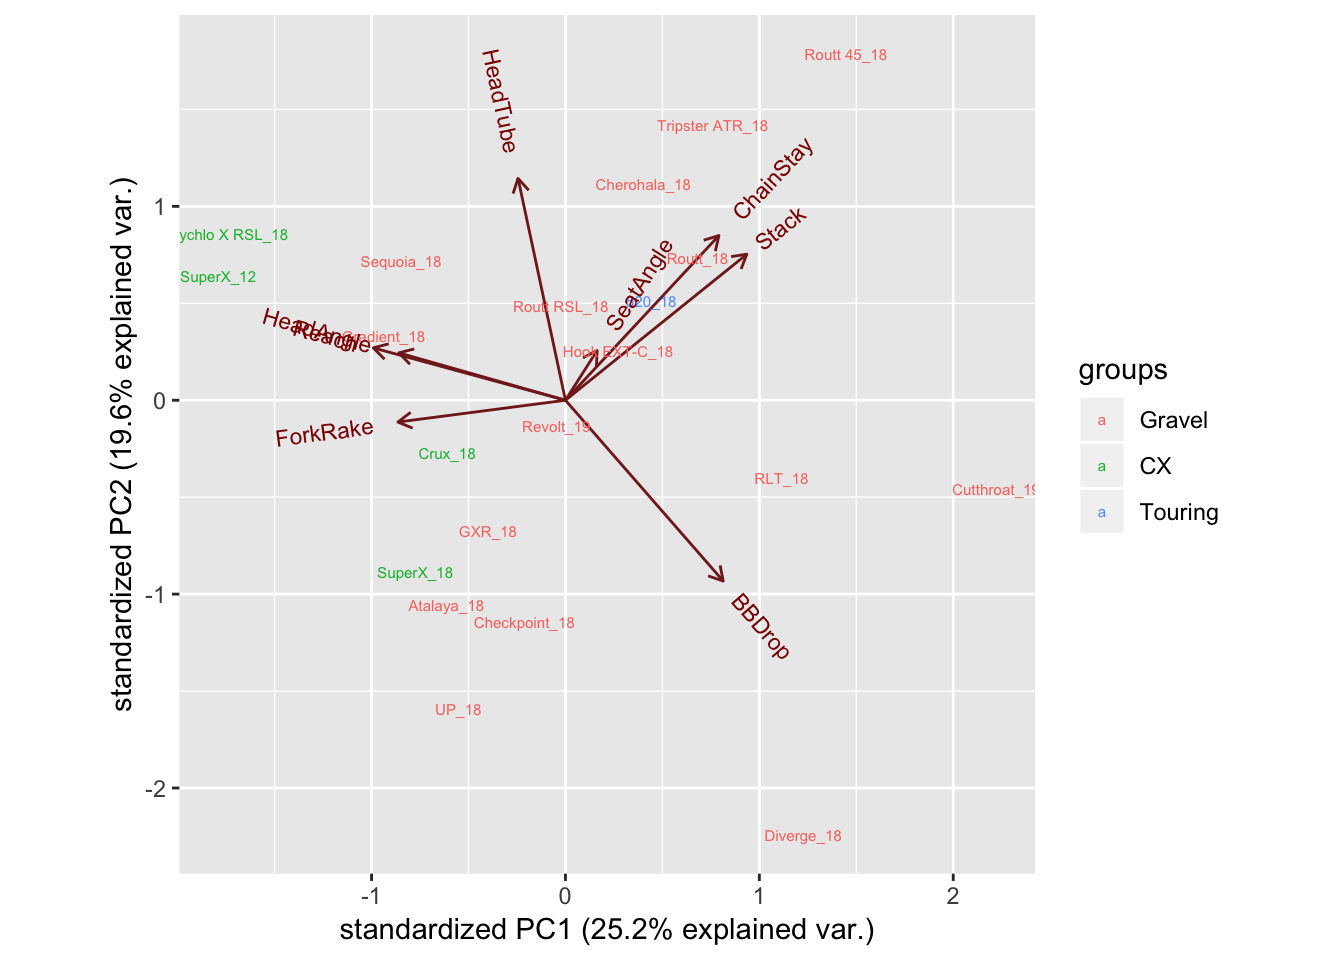
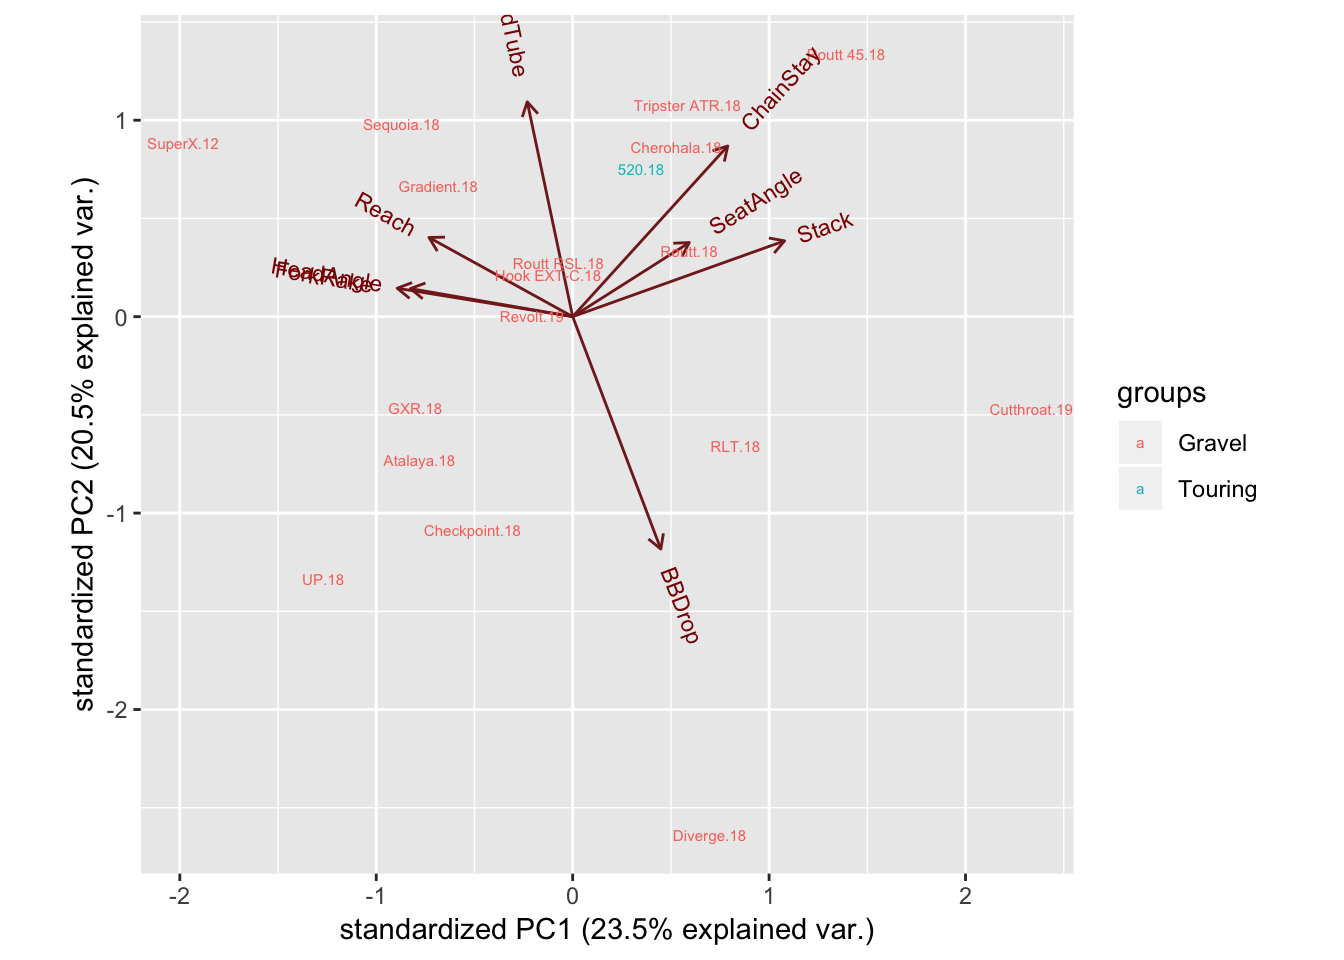
Tweaked geometry analysis

diff --git a/public/post/2018-11-08-geometry/index.html b/public/post/2018-11-08-geometry/index.html
@@ -151,7 +151,7 @@ The main guides for the important numbers to chase were:
 <li>this great resource on <a href="http://teknecycling.com/how-to-choose-a-gravel-bike-part-2-geometry/">gravel bikes</a> covering geometry in part two</li>
 <li><a href="https://geometrygeeks.bike/understanding-bike-geometry">geometrygeeks.com</a> provides good explanations of each term.</li>
 </ul>
-<p>Gaps in geometry were filled in (as best as possible) using this <a href="https://www.bikegeocalc.com/#7Unnameda0b4c743.9802d270e600.64877f769.85608g971.72104h412.76493i340j340k1335l813.03517m1133.98576n679.88726o1177.24813p889.84772q1213.32131r1345.15065s893.89606t31.8u40v6w2x10y280z40A0B150C25D370E45F172.5G30H30Z">bike geometry calculator</a>.</p>
+<p>Gaps in geometry were filled in (as best as possible) using this <a href="https://www.bikegeocalc.com/#7Unnameda0b4c743.9802d270e600.64877f769.85608g971.72104h412.76493i340j340k1335l813.03517m1133.98576n679.88726o1177.24813p889.84772q1213.32131r1345.15065s893.89606t31.8u40v6w2x10y280z40A0B150C25D370E45F172.5G30H30Z">bike geometry calculator</a>. Frame size was taken from the ‘effective top tube’ length most manufacturers provide. This analysis focuses on the frame size closest to 55cm.</p>
 <p>Analysing geometries accumulated from the web gives Figure <a href="#fig:pca">1</a> (principal components analysis [pca] on scaled and centred data). There are clusters of roadies, mtbs and tourers (520 and lets lump cutthroat in with ‘tourers’) respectively. Then there’s a spread of gravel/cx/endurance bikes between those clusters. The roadie cluster appears correlated with high head angle numbers and low chain stay numbers. The smear of endurance/gravel bikes have large bottom bracket drop and head tube angles. High reach and stack seem correlated with XC. The CX bikes are harder to (visually) correlate with any attribute.</p>
 <hr />
 <div class="figure"><span id="fig:pca"></span>
@@ -161,7 +161,7 @@ Figure 1: Principal components analysis of key bike geometry values
 </p>
 </div>
 <hr />
-<p>Focussing on just the gravel(ish) bikes gives Figure <a href="#fig:figpcaGravel">2</a>. The diverge has a seriously low (large bbdrop) bottom bracket! There doesn’t seem to be much noise about it - only <a href="http://ridinggravel.com/forum/?p=%2Fpost%2F2018-specialized-diverge-bb-too-low-9628528">this</a> intriguing forum post. The Revolt_2019 is close to the middle of everything. The 2012 SuperX is a bit of an outlier compared to the other bikes here. It looks like fork rake, reach and head angle are, at least partly, to blame.</p>
+<p>Focussing on just the gravel(ish) bikes gives Figure <a href="#fig:figpcaGravel">2</a>. The diverge has a seriously low (large bbdrop) bottom bracket! There doesn’t seem to be much noise about it - only <a href="http://ridinggravel.com/forum/?p=%2Fpost%2F2018-specialized-diverge-bb-too-low-9628528">this</a> intriguing forum post. The Revolt.19 is closest to the middle of everything. The 2012 SuperX is a bit of an outlier compared to the other bikes here. It looks like fork rake, reach and head angle are, at least partly, to blame.</p>
 <div class="figure"><span id="fig:figpcaGravel"></span>
 <img src="/post/2018-11-08-geometry_files/figure-html/figpcaGravel-1.png" alt="PCA for just the CX/gravel bikes" width="110%" />
 <p class="caption">
@@ -169,7 +169,7 @@ Figure 2: PCA for just the CX/gravel bikes
 </p>
 </div>
 <hr />
-<p>Figure <a href="#fig:uniGeo">3</a> gives a better sense of where a specific bike fits within each geometry attribute. A driver for creating this data set and analysis was to examine the attributes of a 2012 SuperX compared to gravel bikes. It’s clearly an outlier, even among CX bikes, with lowish bbdrop, high fork rake, large head angle and very low trail (not shown). The already high bottom bracket is made even higher by running the largest tyres that fit in the frame instead of the 32/33 mm tyres the frame was designed around. Combined, these attributes make the 2012 SuperX skittish at speed on anything loose. It does however handle sharp corners with ease. Time to replace it with something more suitable to its main use - long rides on quiet back roads, fire tracks and trails.</p>
+<p>Figure <a href="#fig:uniGeo">3</a> gives a better sense of where a specific bike fits within each geometry attribute. A driver for creating this data set and analysis was to examine the attributes of a 2012 SuperX compared to gravel bikes. It’s clearly an outlier, even among CX bikes, with lowish bbdrop, very high fork rake and very large head angle. The already high bottom bracket is made even higher by running the largest tyres that fit in the frame instead of the 32/33 mm tyres the frame was designed around. Combined, these attributes make the 2012 SuperX skittish at speed on anything loose. It does however handle sharp corners with ease. Time to replace it with something more suitable to its main use - long rides on quiet back roads, fire tracks and trails.</p>
 <div class="figure"><span id="fig:uniGeo"></span>
 <img src="/post/2018-11-08-geometry_files/figure-html/uniGeo-1.png" alt="Where does each bike fall on each geometry attribute?" width="110%" />
 <p class="caption">
@@ -179,7 +179,7 @@ Figure 3: Where does each bike fall on each geometry attribute?
 <hr />
 <p>Here’s the data.</p>
 <div id="htmlwidget-1" style="width:100%;height:auto;" class="datatables html-widget"></div>
-<script type="application/json" data-for="htmlwidget-1">{"x":{"filter":"none","data":[["1","2","3","4","5","6","7","8","9","10","11","12","13","14","15","16","17","18","19","20","21","22","23","24","25","26","27","28","29","30","31","32"],["Atalaya","Bombtrack","Cannondale","Cannondale","Curve","Curve","Curve","Giant","Giant","Giant","Kinesis","Litespeed","Moots","Moots","Moots","Moots","Moots","Moots","Niner","Niner","Open","Reilly","Salsa","Specialized","Specialized","Specialized","Specialized","Specialized","Specialized","Specialized","Trek","Trek"],["Atalaya","Hook EXT-C","SuperX","SuperX","Belgie","Belgie Spirit","GXR","Defy","Revolt","TCR Ad","Tripster ATR","Cherohala","Psychlo X RSL","Routt","Routt 45","Routt RSL","Vamoots","Vamoots RSL","Air9","RLT","UP","Gradient","Cutthroat","Crux","Diverge","Epic FS","Epic HT","Sequoia","Tarmac","Tarmac","520","Checkpoint"],[2018,2018,2012,2018,2018,2018,2018,2018,2019,2018,2018,2018,2018,2018,2018,2018,2018,2018,2018,2018,2018,2018,2019,2018,2018,2004,2018,2018,2018,2018,2018,2018],["Gravel","Gravel","CX","CX","Road","Endurance","Gravel","Endurance","Gravel","Road","Gravel","Gravel","CX","Gravel","Gravel","Gravel","Endurance","Road","XC","Gravel","Gravel","Gravel","Gravel","CX","Gravel","XC","XC","Gravel","Road","Road","Touring","Gravel"],[73.5,73,73.5,74,73.5,73.8,73,73.5,73.5,73,73,74,73.5,73.5,73.5,73.5,73.5,73.5,73,73.5,72.5,74,74,73.5,73.5,74,74,73.5,74,73.5,73.8,73.5],[71,71.5,73.5,71,73,71.5,71.5,72.5,70.5,73,70.5,71.5,72.5,71.5,71.5,72.5,72.5,73.5,71,71,71,71.5,70,71.5,71.9,70.5,69.8,71.5,73,73.5,71,71.8],[70,67,67,69,69,72,70,70,70,68,70,71,61,69,69,69,76,72,54,75,70,65,70,69,85,54,61,66.5,72,72,70,76],[420,435,430,422,410,420,432,420,425,405,440,430,423,423,450,430,415,410,439,430,420,425,445,425,421,426,430,435.1,410,410,450,425],[45,48,60,55,45,45,51,45,50,45,45,50,50,47,47,45,50,43,48,45,50,47,45,50,50,57,51,50,44,44,52,49],[550,568,576,555,552,574,565,567,572,545,591.2,600,577,601,601,585,586,572,617,577,551,568,593.9,566,592,617,608,566,544,565,565,567],[386,371,379,378,381,374,381,377,381,383,384.7,380,390,373,373,381,377,387,418,374,376,390,374.7,382,373,412,418,387.8,384,395,378,383]],"container":"<table class=\"display\">\n  <thead>\n    <tr>\n      <th> <\/th>\n      <th>Manufacturer<\/th>\n      <th>Frame<\/th>\n      <th>Year<\/th>\n      <th>Use<\/th>\n      <th>SeatAngle<\/th>\n      <th>HeadAngle<\/th>\n      <th>BBDrop<\/th>\n      <th>ChainStay<\/th>\n      <th>ForkRake<\/th>\n      <th>Stack<\/th>\n      <th>Reach<\/th>\n    <\/tr>\n  <\/thead>\n<\/table>","options":{"columnDefs":[{"className":"dt-right","targets":[3,5,6,7,8,9,10,11]},{"orderable":false,"targets":0}],"order":[],"autoWidth":false,"orderClasses":false}},"evals":[],"jsHooks":[]}</script>
+<script type="application/json" data-for="htmlwidget-1">{"x":{"filter":"none","data":[["1","2","3","4","5","6","7","8","9","10","11","12","13","14","15","16","17","18","19","20","21","22","23","24","25","26","27","28","29","30","31","32"],["Bombtrack","Cannondale","Cannondale","Curve","Curve","Curve","Giant","Giant","Giant","Guillem","Kinesis","Litespeed","Moots","Moots","Moots","Moots","Moots","Moots","Niner","Niner","Open","Reilly","Salsa","Specialized","Specialized","Specialized","Specialized","Specialized","Specialized","Specialized","Trek","Trek"],["Hook EXT-C","SuperX","SuperX","Belgie","Belgie Spirit","GXR","Defy","Revolt","TCR Ad","Atalaya","Tripster ATR","Cherohala","Psychlo X RSL","Routt","Routt 45","Routt RSL","Vamoots","Vamoots RSL","Air9","RLT","UP","Gradient","Cutthroat","Crux","Diverge","Epic FS","Epic HT","Sequoia","Tarmac","Tarmac","520","Checkpoint"],[2018,2012,2018,2018,2018,2018,2018,2019,2018,2018,2018,2018,2018,2018,2018,2018,2018,2018,2018,2018,2018,2018,2019,2018,2018,2004,2018,2018,2018,2018,2018,2018],["Gravel","CX","CX","Road","Endurance","Gravel","Endurance","Gravel","Road","Gravel","Gravel","Gravel","CX","Gravel","Gravel","Gravel","Endurance","Road","XC","Gravel","Gravel","Gravel","Gravel","CX","Gravel","XC","XC","Gravel","Road","Road","Touring","Gravel"],[73,73.5,74,73.5,73.8,73,73.5,73.5,73,73.5,73,74,73.5,73.5,73.5,73.5,73.5,73.5,73,73.5,72.5,74,74,73.5,73.5,74,74,73.5,74,73.5,73.8,73.5],[71.5,73.5,71,73,71.5,71.5,72.5,70.5,73,71,70.5,71.5,72.5,71.5,71.5,72.5,72.5,73.5,71,71,71,71.5,70,71.5,71.9,70.5,69.8,71.5,73,73.5,71,71.8],[67,67,69,69,72,70,70,70,68,70,70,71,61,69,69,69,76,72,54,75,70,65,70,69,85,54,61,66.5,72,72,70,76],[435,430,422,410,420,432,420,425,405,420,440,430,423,423,450,430,415,410,439,430,420,425,445,425,421,426,430,435.1,410,410,450,425],[48,60,55,45,45,51,45,50,45,45,45,50,50,47,47,45,50,43,48,45,50,47,45,50,50,57,51,50,44,44,52,49],[568,576,555,552,574,565,567,572,545,550,591.2,600,577,601,601,585,586,572,617,577,551,568,593.9,566,592,617,608,566,544,565,565,567],[371,379,378,381,374,381,377,381,383,386,384.7,380,390,373,373,381,377,387,418,374,376,390,374.7,382,373,412,418,387.8,384,395,378,383]],"container":"<table class=\"display\">\n  <thead>\n    <tr>\n      <th> <\/th>\n      <th>Manufacturer<\/th>\n      <th>Frame<\/th>\n      <th>Year<\/th>\n      <th>Use<\/th>\n      <th>SeatAngle<\/th>\n      <th>HeadAngle<\/th>\n      <th>BBDrop<\/th>\n      <th>ChainStay<\/th>\n      <th>ForkRake<\/th>\n      <th>Stack<\/th>\n      <th>Reach<\/th>\n    <\/tr>\n  <\/thead>\n<\/table>","options":{"columnDefs":[{"className":"dt-right","targets":[3,5,6,7,8,9,10,11]},{"orderable":false,"targets":0}],"order":[],"autoWidth":false,"orderClasses":false}},"evals":[],"jsHooks":[]}</script>
 <hr />
 <div id="acknowledgements" class="section level1">
 <h1>Acknowledgements</h1>
@@ -304,8 +304,6 @@ tidyverse: Easily Install and Load the ‘Tidyverse’
           <hr />
         </div>
         <div class="pagination__buttons">
-          
-            <a class="btn next" href="/post/how-do-i-ride/">← How do I ride?</a>
           
           
             <a class="btn previous" href="/post/20190919_rttr/">Race to the rock →</a>

diff --git a/content/post/2018-11-08-geometry.html b/content/post/2018-11-08-geometry.html
@@ -34,7 +34,7 @@ tags:
 <li>this great resource on <a href="http://teknecycling.com/how-to-choose-a-gravel-bike-part-2-geometry/">gravel bikes</a> covering geometry in part two</li>
 <li><a href="https://geometrygeeks.bike/understanding-bike-geometry">geometrygeeks.com</a> provides good explanations of each term.</li>
 </ul>
-<p>Gaps in geometry were filled in (as best as possible) using this <a href="https://www.bikegeocalc.com/#7Unnameda0b4c743.9802d270e600.64877f769.85608g971.72104h412.76493i340j340k1335l813.03517m1133.98576n679.88726o1177.24813p889.84772q1213.32131r1345.15065s893.89606t31.8u40v6w2x10y280z40A0B150C25D370E45F172.5G30H30Z">bike geometry calculator</a>.</p>
+<p>Gaps in geometry were filled in (as best as possible) using this <a href="https://www.bikegeocalc.com/#7Unnameda0b4c743.9802d270e600.64877f769.85608g971.72104h412.76493i340j340k1335l813.03517m1133.98576n679.88726o1177.24813p889.84772q1213.32131r1345.15065s893.89606t31.8u40v6w2x10y280z40A0B150C25D370E45F172.5G30H30Z">bike geometry calculator</a>. Frame size was taken from the ‘effective top tube’ length most manufacturers provide. This analysis focuses on the frame size closest to 55cm.</p>
 <p>Analysing geometries accumulated from the web gives Figure <a href="#fig:pca">1</a> (principal components analysis [pca] on scaled and centred data). There are clusters of roadies, mtbs and tourers (520 and lets lump cutthroat in with ‘tourers’) respectively. Then there’s a spread of gravel/cx/endurance bikes between those clusters. The roadie cluster appears correlated with high head angle numbers and low chain stay numbers. The smear of endurance/gravel bikes have large bottom bracket drop and head tube angles. High reach and stack seem correlated with XC. The CX bikes are harder to (visually) correlate with any attribute.</p>
 <hr />
 <div class="figure"><span id="fig:pca"></span>
@@ -44,7 +44,7 @@ Figure 1: Principal components analysis of key bike geometry values
 </p>
 </div>
 <hr />
-<p>Focussing on just the gravel(ish) bikes gives Figure <a href="#fig:figpcaGravel">2</a>. The diverge has a seriously low (large bbdrop) bottom bracket! There doesn’t seem to be much noise about it - only <a href="http://ridinggravel.com/forum/?p=%2Fpost%2F2018-specialized-diverge-bb-too-low-9628528">this</a> intriguing forum post. The Revolt_2019 is close to the middle of everything. The 2012 SuperX is a bit of an outlier compared to the other bikes here. It looks like fork rake, reach and head angle are, at least partly, to blame.</p>
+<p>Focussing on just the gravel(ish) bikes gives Figure <a href="#fig:figpcaGravel">2</a>. The diverge has a seriously low (large bbdrop) bottom bracket! There doesn’t seem to be much noise about it - only <a href="http://ridinggravel.com/forum/?p=%2Fpost%2F2018-specialized-diverge-bb-too-low-9628528">this</a> intriguing forum post. The Revolt.19 is closest to the middle of everything. The 2012 SuperX is a bit of an outlier compared to the other bikes here. It looks like fork rake, reach and head angle are, at least partly, to blame.</p>
 <div class="figure"><span id="fig:figpcaGravel"></span>
 <img src="/post/2018-11-08-geometry_files/figure-html/figpcaGravel-1.png" alt="PCA for just the CX/gravel bikes" width="110%" />
 <p class="caption">
@@ -52,7 +52,7 @@ Figure 2: PCA for just the CX/gravel bikes
 </p>
 </div>
 <hr />
-<p>Figure <a href="#fig:uniGeo">3</a> gives a better sense of where a specific bike fits within each geometry attribute. A driver for creating this data set and analysis was to examine the attributes of a 2012 SuperX compared to gravel bikes. It’s clearly an outlier, even among CX bikes, with lowish bbdrop, high fork rake, large head angle and very low trail (not shown). The already high bottom bracket is made even higher by running the largest tyres that fit in the frame instead of the 32/33 mm tyres the frame was designed around. Combined, these attributes make the 2012 SuperX skittish at speed on anything loose. It does however handle sharp corners with ease. Time to replace it with something more suitable to its main use - long rides on quiet back roads, fire tracks and trails.</p>
+<p>Figure <a href="#fig:uniGeo">3</a> gives a better sense of where a specific bike fits within each geometry attribute. A driver for creating this data set and analysis was to examine the attributes of a 2012 SuperX compared to gravel bikes. It’s clearly an outlier, even among CX bikes, with lowish bbdrop, very high fork rake and very large head angle. The already high bottom bracket is made even higher by running the largest tyres that fit in the frame instead of the 32/33 mm tyres the frame was designed around. Combined, these attributes make the 2012 SuperX skittish at speed on anything loose. It does however handle sharp corners with ease. Time to replace it with something more suitable to its main use - long rides on quiet back roads, fire tracks and trails.</p>
 <div class="figure"><span id="fig:uniGeo"></span>
 <img src="/post/2018-11-08-geometry_files/figure-html/uniGeo-1.png" alt="Where does each bike fall on each geometry attribute?" width="110%" />
 <p class="caption">
@@ -62,7 +62,7 @@ Figure 3: Where does each bike fall on each geometry attribute?
 <hr />
 <p>Here’s the data.</p>
 <div id="htmlwidget-1" style="width:100%;height:auto;" class="datatables html-widget"></div>
-<script type="application/json" data-for="htmlwidget-1">{"x":{"filter":"none","data":[["1","2","3","4","5","6","7","8","9","10","11","12","13","14","15","16","17","18","19","20","21","22","23","24","25","26","27","28","29","30","31","32"],["Atalaya","Bombtrack","Cannondale","Cannondale","Curve","Curve","Curve","Giant","Giant","Giant","Kinesis","Litespeed","Moots","Moots","Moots","Moots","Moots","Moots","Niner","Niner","Open","Reilly","Salsa","Specialized","Specialized","Specialized","Specialized","Specialized","Specialized","Specialized","Trek","Trek"],["Atalaya","Hook EXT-C","SuperX","SuperX","Belgie","Belgie Spirit","GXR","Defy","Revolt","TCR Ad","Tripster ATR","Cherohala","Psychlo X RSL","Routt","Routt 45","Routt RSL","Vamoots","Vamoots RSL","Air9","RLT","UP","Gradient","Cutthroat","Crux","Diverge","Epic FS","Epic HT","Sequoia","Tarmac","Tarmac","520","Checkpoint"],[2018,2018,2012,2018,2018,2018,2018,2018,2019,2018,2018,2018,2018,2018,2018,2018,2018,2018,2018,2018,2018,2018,2019,2018,2018,2004,2018,2018,2018,2018,2018,2018],["Gravel","Gravel","CX","CX","Road","Endurance","Gravel","Endurance","Gravel","Road","Gravel","Gravel","CX","Gravel","Gravel","Gravel","Endurance","Road","XC","Gravel","Gravel","Gravel","Gravel","CX","Gravel","XC","XC","Gravel","Road","Road","Touring","Gravel"],[73.5,73,73.5,74,73.5,73.8,73,73.5,73.5,73,73,74,73.5,73.5,73.5,73.5,73.5,73.5,73,73.5,72.5,74,74,73.5,73.5,74,74,73.5,74,73.5,73.8,73.5],[71,71.5,73.5,71,73,71.5,71.5,72.5,70.5,73,70.5,71.5,72.5,71.5,71.5,72.5,72.5,73.5,71,71,71,71.5,70,71.5,71.9,70.5,69.8,71.5,73,73.5,71,71.8],[70,67,67,69,69,72,70,70,70,68,70,71,61,69,69,69,76,72,54,75,70,65,70,69,85,54,61,66.5,72,72,70,76],[420,435,430,422,410,420,432,420,425,405,440,430,423,423,450,430,415,410,439,430,420,425,445,425,421,426,430,435.1,410,410,450,425],[45,48,60,55,45,45,51,45,50,45,45,50,50,47,47,45,50,43,48,45,50,47,45,50,50,57,51,50,44,44,52,49],[550,568,576,555,552,574,565,567,572,545,591.2,600,577,601,601,585,586,572,617,577,551,568,593.9,566,592,617,608,566,544,565,565,567],[386,371,379,378,381,374,381,377,381,383,384.7,380,390,373,373,381,377,387,418,374,376,390,374.7,382,373,412,418,387.8,384,395,378,383]],"container":"<table class=\"display\">\n  <thead>\n    <tr>\n      <th> <\/th>\n      <th>Manufacturer<\/th>\n      <th>Frame<\/th>\n      <th>Year<\/th>\n      <th>Use<\/th>\n      <th>SeatAngle<\/th>\n      <th>HeadAngle<\/th>\n      <th>BBDrop<\/th>\n      <th>ChainStay<\/th>\n      <th>ForkRake<\/th>\n      <th>Stack<\/th>\n      <th>Reach<\/th>\n    <\/tr>\n  <\/thead>\n<\/table>","options":{"columnDefs":[{"className":"dt-right","targets":[3,5,6,7,8,9,10,11]},{"orderable":false,"targets":0}],"order":[],"autoWidth":false,"orderClasses":false}},"evals":[],"jsHooks":[]}</script>
+<script type="application/json" data-for="htmlwidget-1">{"x":{"filter":"none","data":[["1","2","3","4","5","6","7","8","9","10","11","12","13","14","15","16","17","18","19","20","21","22","23","24","25","26","27","28","29","30","31","32"],["Bombtrack","Cannondale","Cannondale","Curve","Curve","Curve","Giant","Giant","Giant","Guillem","Kinesis","Litespeed","Moots","Moots","Moots","Moots","Moots","Moots","Niner","Niner","Open","Reilly","Salsa","Specialized","Specialized","Specialized","Specialized","Specialized","Specialized","Specialized","Trek","Trek"],["Hook EXT-C","SuperX","SuperX","Belgie","Belgie Spirit","GXR","Defy","Revolt","TCR Ad","Atalaya","Tripster ATR","Cherohala","Psychlo X RSL","Routt","Routt 45","Routt RSL","Vamoots","Vamoots RSL","Air9","RLT","UP","Gradient","Cutthroat","Crux","Diverge","Epic FS","Epic HT","Sequoia","Tarmac","Tarmac","520","Checkpoint"],[2018,2012,2018,2018,2018,2018,2018,2019,2018,2018,2018,2018,2018,2018,2018,2018,2018,2018,2018,2018,2018,2018,2019,2018,2018,2004,2018,2018,2018,2018,2018,2018],["Gravel","CX","CX","Road","Endurance","Gravel","Endurance","Gravel","Road","Gravel","Gravel","Gravel","CX","Gravel","Gravel","Gravel","Endurance","Road","XC","Gravel","Gravel","Gravel","Gravel","CX","Gravel","XC","XC","Gravel","Road","Road","Touring","Gravel"],[73,73.5,74,73.5,73.8,73,73.5,73.5,73,73.5,73,74,73.5,73.5,73.5,73.5,73.5,73.5,73,73.5,72.5,74,74,73.5,73.5,74,74,73.5,74,73.5,73.8,73.5],[71.5,73.5,71,73,71.5,71.5,72.5,70.5,73,71,70.5,71.5,72.5,71.5,71.5,72.5,72.5,73.5,71,71,71,71.5,70,71.5,71.9,70.5,69.8,71.5,73,73.5,71,71.8],[67,67,69,69,72,70,70,70,68,70,70,71,61,69,69,69,76,72,54,75,70,65,70,69,85,54,61,66.5,72,72,70,76],[435,430,422,410,420,432,420,425,405,420,440,430,423,423,450,430,415,410,439,430,420,425,445,425,421,426,430,435.1,410,410,450,425],[48,60,55,45,45,51,45,50,45,45,45,50,50,47,47,45,50,43,48,45,50,47,45,50,50,57,51,50,44,44,52,49],[568,576,555,552,574,565,567,572,545,550,591.2,600,577,601,601,585,586,572,617,577,551,568,593.9,566,592,617,608,566,544,565,565,567],[371,379,378,381,374,381,377,381,383,386,384.7,380,390,373,373,381,377,387,418,374,376,390,374.7,382,373,412,418,387.8,384,395,378,383]],"container":"<table class=\"display\">\n  <thead>\n    <tr>\n      <th> <\/th>\n      <th>Manufacturer<\/th>\n      <th>Frame<\/th>\n      <th>Year<\/th>\n      <th>Use<\/th>\n      <th>SeatAngle<\/th>\n      <th>HeadAngle<\/th>\n      <th>BBDrop<\/th>\n      <th>ChainStay<\/th>\n      <th>ForkRake<\/th>\n      <th>Stack<\/th>\n      <th>Reach<\/th>\n    <\/tr>\n  <\/thead>\n<\/table>","options":{"columnDefs":[{"className":"dt-right","targets":[3,5,6,7,8,9,10,11]},{"orderable":false,"targets":0}],"order":[],"autoWidth":false,"orderClasses":false}},"evals":[],"jsHooks":[]}</script>
 <hr />
 <div id="acknowledgements" class="section level1">
 <h1>Acknowledgements</h1>

diff --git a/public/index.html b/public/index.html
@@ -110,27 +110,6 @@
     
     
     <div class="post on-list">
-      <h1 class="post-title"><a href="/post/how-do-i-ride/">How do I ride?</a></h1>
-      <div class="post-meta">
-        <span class="post-date">
-          2018-11-29
-        </span>
-        <span class="post-author">Written by </span>
-      </div>
-
-      
-
-      
-
-      <div class="post-content">
-        
-          
-        
-      </div>
-      <div><a class="read-more button" href="/post/how-do-i-ride/">Read more →</a></div>
-    </div>
-    
-    <div class="post on-list">
       <h1 class="post-title"><a href="/post/2018-11-08-geometry/">Geometry</a></h1>
       <div class="post-meta">
         <span class="post-date">

diff --git a/public/post/index.html b/public/post/index.html
@@ -109,27 +109,6 @@
     
     
     <div class="post on-list">
-      <h1 class="post-title"><a href="/post/how-do-i-ride/">How do I ride?</a></h1>
-      <div class="post-meta">
-        <span class="post-date">
-          2018-11-29
-        </span>
-        <span class="post-author">Written by </span>
-      </div>
-
-      
-
-      
-
-      <div class="post-content">
-        
-          
-        
-      </div>
-      <div><a class="read-more button" href="/post/how-do-i-ride/">Read more →</a></div>
-    </div>
-    
-    <div class="post on-list">
       <h1 class="post-title"><a href="/post/2018-11-08-geometry/">Geometry</a></h1>
       <div class="post-meta">
         <span class="post-date">
